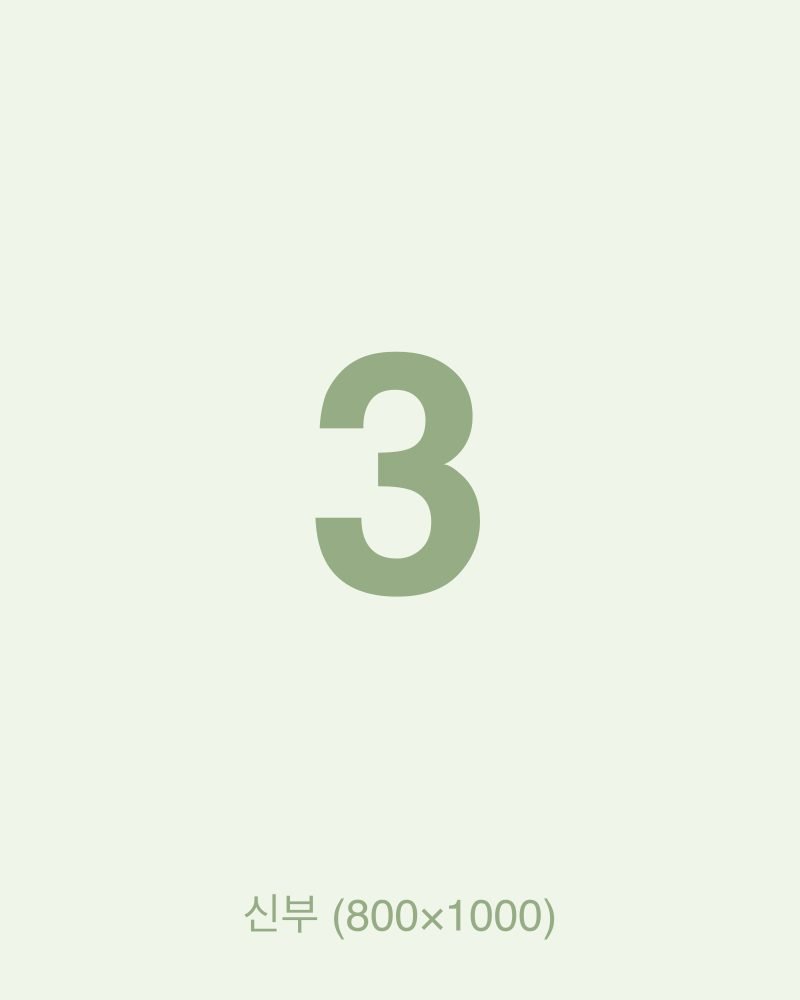
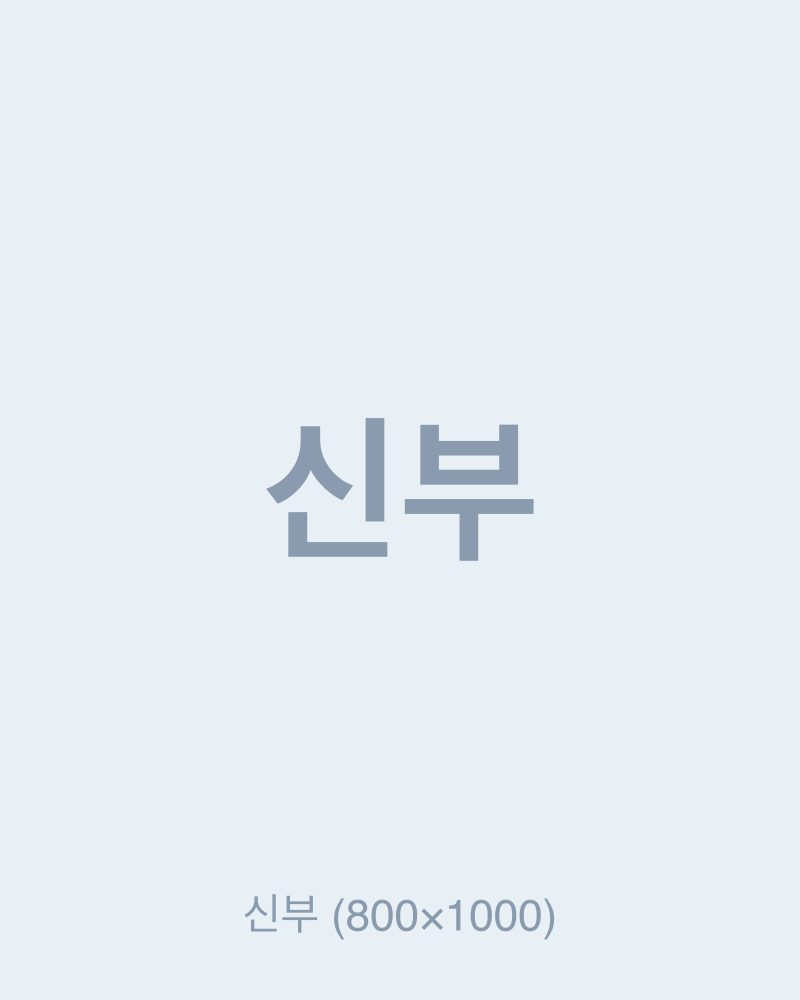
색감 개편(세이지 그린), RSVP 삭제, 이미지 번호 체계 변경
- 팔레트: 크림+로즈 → 순백(#fcfdfb)+차콜+세이지 그린(#7f9678), 커버 문구 SVG 색상 동기화
- RSVP 섹션/스크립트 삭제 (방명록은 유지)
- 이미지 번호 체계: 01=커버(공유 썸네일 겸용), 02~09=갤러리 8장, 11=약도 (png)
- 갤러리는 02~09 + 마지막에 01 재사용 (총 9장 표시)
- og:image를 01.png 절대 URL로 지정 (링크 공유 썸네일)
- optimize-images.js: 대용량 PNG 리사이즈·palette 압축 지원

Changed region(s): [[0.3438, 0.341, 0.6875, 0.62], [0.3125, 0.899, 0.7188, 0.93]]

diff --git a/scripts/generate-placeholders.js b/scripts/generate-placeholders.js
@@ -1,6 +1,12 @@
 // 임시 플레이스홀더 이미지 생성 스크립트
-// 실사진 준비 전까지 사용할, 중앙에 번호(1~n)가 적힌 이미지를 생성한다.
+// 실사진 준비 전까지 사용할, 중앙에 번호가 적힌 이미지를 생성한다.
 // 실행: npm run placeholders
+//
+// 번호 체계 (실사진 교체 시 같은 파일명으로 덮어쓰면 됨):
+//   01.png       커버 (링크 공유 썸네일 겸용) — 갤러리 마지막에도 재사용됨
+//   02~09.png    갤러리 8장
+//   11.png       약도
+//   groom/, bride/  프로필·혼주 사진 (이름 기반, 번호 없음)
 const sharp = require('sharp');
 const fs = require('fs');
 const path = require('path');
@@ -16,42 +22,44 @@ const COLORS = [
   { bg: '#EEE8F5', fg: '#9C8AB0' }, // 연보라
 ];
 
-// 이미지 슬롯 정의 — content.json 이 참조하는 모든 이미지
-// num: 중앙에 표시할 전역 번호(1~n), label: 하단 소형 라벨
 const SLOTS = [
-  { file: 'cover.jpg',            w: 1080, h: 1440, num: 1,  label: '커버' },
-  { file: 'groom/profile.jpg',    w: 800,  h: 1000, num: 2,  label: '신랑' },
-  { file: 'bride/profile.jpg',    w: 800,  h: 1000, num: 3,  label: '신부' },
-  { file: 'groom/parents.jpg',    w: 1000, h: 750,  num: 4,  label: '신랑측 혼주' },
-  { file: 'bride/parents.jpg',    w: 1000, h: 750,  num: 5,  label: '신부측 혼주' },
-  { file: 'map-sketch.jpg',       w: 1080, h: 720,  num: 6,  label: '약도' },
-  ...Array.from({ length: 12 }, (_, i) => ({
-    file: `gallery/${String(i + 1).padStart(2, '0')}.jpg`,
+  { file: '01.png', w: 1080, h: 1440, num: 1,  label: '커버 · 공유 썸네일' },
+  ...Array.from({ length: 8 }, (_, i) => ({
+    file: `${String(i + 2).padStart(2, '0')}.png`,
     w: 1080, h: 1080,
-    num: 7 + i,
+    num: i + 2,
     label: `갤러리 ${i + 1}`,
   })),
+  { file: '11.png', w: 1080, h: 720, num: 11, label: '약도' },
+  { file: 'groom/profile.jpg', w: 800,  h: 1000, num: 0, label: '신랑' },
+  { file: 'bride/profile.jpg', w: 800,  h: 1000, num: 0, label: '신부' },
+  { file: 'groom/parents.jpg', w: 1000, h: 750,  num: 0, label: '신랑측 혼주' },
+  { file: 'bride/parents.jpg', w: 1000, h: 750,  num: 0, label: '신부측 혼주' },
 ];
 
 function svgFor(slot, color) {
-  const fontSize = Math.round(Math.min(slot.w, slot.h) * 0.42);
+  const text = slot.num > 0 ? String(slot.num) : slot.label.slice(0, 2);
+  const fontSize = Math.round(Math.min(slot.w, slot.h) * (slot.num > 0 ? 0.42 : 0.2));
   const labelSize = Math.round(Math.min(slot.w, slot.h) * 0.055);
   return `<svg width="${slot.w}" height="${slot.h}" xmlns="http://www.w3.org/2000/svg">
   <rect width="100%" height="100%" fill="${color.bg}"/>
   <text x="50%" y="50%" font-family="Helvetica, Arial, sans-serif" font-size="${fontSize}"
-        font-weight="bold" fill="${color.fg}" text-anchor="middle" dominant-baseline="central">${slot.num}</text>
+        font-weight="bold" fill="${color.fg}" text-anchor="middle" dominant-baseline="central">${text}</text>
   <text x="50%" y="${slot.h - labelSize * 1.6}" font-family="Helvetica, Arial, sans-serif" font-size="${labelSize}"
         fill="${color.fg}" text-anchor="middle">${slot.label} (${slot.w}×${slot.h})</text>
 </svg>`;
 }
 
 (async () => {
+  let i = 0;
   for (const slot of SLOTS) {
-    const color = COLORS[(slot.num - 1) % COLORS.length];
+    const color = COLORS[i++ % COLORS.length];
     const out = path.join(ROOT, slot.file);
     fs.mkdirSync(path.dirname(out), { recursive: true });
-    await sharp(Buffer.from(svgFor(slot, color))).jpeg({ quality: 82 }).toFile(out);
-    console.log(`생성: ${path.relative(path.join(__dirname, '..'), out)} (#${slot.num})`);
+    const pipeline = sharp(Buffer.from(svgFor(slot, color)));
+    if (out.endsWith('.png')) await pipeline.png({ compressionLevel: 9 }).toFile(out);
+    else await pipeline.jpeg({ quality: 82 }).toFile(out);
+    console.log(`생성: ${path.relative(path.join(__dirname, '..'), out)}`);
   }
-  console.log(`\n총 ${SLOTS.length}장 생성 완료 (번호 1~${SLOTS.length})`);
+  console.log(`\n총 ${SLOTS.length}장 생성 완료`);
 })();

diff --git a/scripts/optimize-images.js b/scripts/optimize-images.js
@@ -1,10 +1,14 @@
-// 실사진 최적화 스크립트
-// media-original/ 폴더의 원본 사진을 최적화해 public/assets/images/ 에 배치한다.
+// 실사진 최적화 스크립트 — 대용량 원본을 웹용으로 리사이즈·압축한다.
+//
 // 사용법:
-//   1. media-original/ 아래에 public/assets/images/ 와 같은 구조로 원본을 넣는다.
-//      예) media-original/gallery/01.jpg, media-original/cover.jpg
+//   1. media-original/ 폴더에 public/assets/images/ 와 같은 파일명으로 원본을 넣는다.
+//      예) media-original/01.png (커버), media-original/02.png ~ 09.png (갤러리),
+//          media-original/11.png (약도), media-original/groom/profile.jpg ...
 //   2. node scripts/optimize-images.js
-//   → 같은 상대 경로로 public/assets/images/ 에 리사이즈·압축본이 생성된다 (jpg 유지 + webp 병행 생성).
+//   → 같은 파일명으로 public/assets/images/ 에 최적화본이 생성된다.
+//
+// 20MB급 PNG 원본도 폭 1600px + 압축으로 보통 1MB 안팎까지 줄어든다.
+// (같은 사진이면 PNG보다 JPG 원본이 더 작게 최적화된다)
 const sharp = require('sharp');
 const fs = require('fs');
 const path = require('path');
@@ -13,14 +17,14 @@ const SRC = path.join(__dirname, '..', 'media-original');
 const DST = path.join(__dirname, '..', 'public', 'assets', 'images');
 const MAX_WIDTH = 1600;       // 모바일 청첩장에 충분한 최대 폭
 const JPEG_QUALITY = 80;
-const WEBP_QUALITY = 78;
+const PNG_QUALITY = 80;       // palette 기반 손실 압축 (사진용)
 
 async function walk(dir) {
   const out = [];
   for (const entry of fs.readdirSync(dir, { withFileTypes: true })) {
     const p = path.join(dir, entry.name);
     if (entry.isDirectory()) out.push(...await walk(p));
-    else if (/\.(jpe?g|png|heic)$/i.test(entry.name)) out.push(p);
+    else if (/\.(jpe?g|png|heic|webp)$/i.test(entry.name)) out.push(p);
   }
   return out;
 }
@@ -38,18 +42,23 @@ async function walk(dir) {
   }
   for (const file of files) {
     const rel = path.relative(SRC, file);
-    const base = rel.replace(/\.(jpe?g|png|heic)$/i, '');
-    const outJpg = path.join(DST, `${base}.jpg`);
-    const outWebp = path.join(DST, `${base}.webp`);
-    fs.mkdirSync(path.dirname(outJpg), { recursive: true });
+    const ext = path.extname(rel).toLowerCase();
+    const out = path.join(DST, rel);
+    fs.mkdirSync(path.dirname(out), { recursive: true });
 
     const pipeline = sharp(file).rotate() // EXIF 회전 반영
       .resize({ width: MAX_WIDTH, withoutEnlargement: true });
-    await pipeline.clone().jpeg({ quality: JPEG_QUALITY, mozjpeg: true }).toFile(outJpg);
-    await pipeline.clone().webp({ quality: WEBP_QUALITY }).toFile(outWebp);
 
+    if (ext === '.png') {
+      // 사진 PNG는 palette 손실 압축으로 대폭 축소
+      await pipeline.png({ quality: PNG_QUALITY, compressionLevel: 9, palette: true }).toFile(out);
+    } else {
+      await pipeline.jpeg({ quality: JPEG_QUALITY, mozjpeg: true }).toFile(path.join(DST, rel.replace(/\.[^.]+$/, '.jpg')));
+    }
+
+    const written = ext === '.png' ? out : path.join(DST, rel.replace(/\.[^.]+$/, '.jpg'));
     const kb = (n) => `${Math.round(fs.statSync(n).size / 1024)}KB`;
-    console.log(`${rel} → ${base}.jpg (${kb(outJpg)}), ${base}.webp (${kb(outWebp)})`);
+    console.log(`${rel} (${kb(file)}) → ${path.relative(path.join(__dirname, '..'), written)} (${kb(written)})`);
   }
   console.log(`\n${files.length}장 최적화 완료`);
 })();

diff --git a/public/index.html b/public/index.html
@@ -9,7 +9,7 @@
 <meta property="og:type" content="website">
 <meta property="og:title" content="김수호 ♥ 홍소연의 모바일 청첩장">
 <meta property="og:description" content="2026년 12월 19일 토요일 낮 12시, 경기교총웨딩하우스">
-<meta property="og:image" content="https://tngh5004.github.io/wedding-invitation/assets/images/cover.jpg">
+<meta property="og:image" content="https://tngh5004.github.io/wedding-invitation/assets/images/01.png">
 <meta property="og:url" content="https://tngh5004.github.io/wedding-invitation/">
 <link rel="stylesheet" href="css/reset.css">
 <link rel="stylesheet" href="css/style.css">
@@ -98,50 +98,6 @@
     <div class="accounts-wrap"></div>
   </section>
 
-  <!-- 9. RSVP -->
-  <section class="fade-in">
-    <div class="section-label">RSVP</div>
-    <h2 class="section-title">참석 여부를 알려주세요</h2>
-    <form id="rsvp-form" class="form-card" autocomplete="off">
-      <div class="form-row">
-        <label>어느 분의 하객이신가요?</label>
-        <div class="seg">
-          <input type="radio" name="side" value="groom" id="side-groom" required>
-          <label for="side-groom">신랑측</label>
-          <input type="radio" name="side" value="bride" id="side-bride">
-          <label for="side-bride">신부측</label>
-        </div>
-      </div>
-      <div class="form-row">
-        <label>참석 여부</label>
-        <div class="seg">
-          <input type="radio" name="attending" value="yes" id="att-yes" required>
-          <label for="att-yes">참석</label>
-          <input type="radio" name="attending" value="no" id="att-no">
-          <label for="att-no">불참</label>
-        </div>
-      </div>
-      <div class="form-row">
-        <label for="rsvp-name">성함</label>
-        <input type="text" id="rsvp-name" name="name" maxlength="20" required placeholder="성함을 입력해주세요">
-      </div>
-      <div class="form-row">
-        <label for="rsvp-count">동행 인원 (본인 포함)</label>
-        <input type="number" id="rsvp-count" name="guest_count" min="1" max="20" value="1">
-      </div>
-      <div class="form-row">
-        <label for="rsvp-phone">소속 (선택)</label>
-        <input type="text" id="rsvp-phone" name="phone" maxlength="20" placeholder="친구/친척/직장동료">
-      </div>
-      <div class="hp-field">
-        <label for="rsvp-website">홈페이지</label>
-        <input type="text" id="rsvp-website" name="website" tabindex="-1" autocomplete="off">
-      </div>
-      <button type="submit" class="submit-btn">참석 여부 보내기</button>
-      <div class="form-msg"></div>
-    </form>
-  </section>
-
   <!-- 10. 방명록 -->
   <section class="fade-in">
     <div class="section-label">GUESTBOOK</div>
@@ -179,7 +135,6 @@
 <script src="js/countdown.js"></script>
 <script src="js/gallery.js"></script>
 <script src="js/map.js"></script>
-<script src="js/rsvp.js"></script>
 <script src="js/guestbook.js"></script>
 <script src="js/main.js"></script>
 </body>

diff --git a/public/css/style.css b/public/css/style.css
@@ -10,13 +10,13 @@
 }
 
 :root {
-  --bg: #faf7f4;
+  --bg: #fcfdfb;           /* 순백에 가까운 화이트 */
   --card: #ffffff;
-  --ink: #3d3a37;
-  --ink-soft: #7a736c;
-  --accent: #b08a8f;       /* 로즈 */
-  --accent-soft: #f5e6e8;
-  --line: #eae4de;
+  --ink: #31352f;          /* 차분한 차콜 */
+  --ink-soft: #7d837a;
+  --accent: #7f9678;       /* 세이지 그린 */
+  --accent-soft: #eef2ec;
+  --line: #e4e8e1;
   --serif: "Nanum NeuRisNeuRisCe", "Apple SD Gothic Neo", "Noto Serif KR", "Nanum Myeongjo", serif;
   --sans: "Nanum NeuRisNeuRisCe", "Apple SD Gothic Neo", "Noto Sans KR", "Malgun Gothic", sans-serif;
 }
@@ -25,7 +25,7 @@ html { scroll-behavior: smooth; }
 body {
   font-family: var(--sans);
   font-size: 24px; /* 기본 16px의 1.5배 — 개별 지정이 없는 텍스트에 적용 */
-  background: #efeae5;
+  background: #eceee9;
   color: var(--ink);
   line-height: 1.7;
   word-break: keep-all;

diff --git a/public/js/main.js b/public/js/main.js
@@ -89,10 +89,9 @@
     accWrap.closest('section').style.display = 'none';
   }
 
-  // RSVP / 방명록 — Apps Script URL(api.baseUrl) 미설정 시 섹션 숨김
+  // 방명록 — Apps Script URL(api.baseUrl) 미설정 시 섹션 숨김
   const apiBase = data.api && data.api.baseUrl;
   if (apiBase) {
-    window.WeddingRsvp.init(document.querySelector('#rsvp-form'), apiBase);
     window.WeddingGuestbook.init(
       document.querySelector('#gb-form'),
       document.querySelector('.gb-list'),
@@ -100,7 +99,6 @@
       apiBase
     );
   } else {
-    document.querySelector('#rsvp-form').closest('section').style.display = 'none';
     document.querySelector('#gb-form').closest('section').style.display = 'none';
   }
 

diff --git a/scripts/generate-cover-text.py b/scripts/generate-cover-text.py
@@ -12,9 +12,9 @@ OUT_SVG = os.path.join(ROOT, 'public/assets/images/cover-text.svg')
 
 # (텍스트, 폰트크기(px, @2x), 색상, 자간(em))
 LINES = [
-    ('김수호♥홍소연', 86, '#3d3a37', 0.10),
-    ('2026년 12월 19일 토요일 낮 12시', 50, '#7a736c', 0.02),
-    ('경기교총웨딩하우스', 50, '#7a736c', 0.02),
+    ('김수호♥홍소연', 86, '#31352f', 0.10),
+    ('2026년 12월 19일 토요일 낮 12시', 50, '#7d837a', 0.02),
+    ('경기교총웨딩하우스', 50, '#7d837a', 0.02),
 ]
 WIDTH = 860           # frame 430px 의 2배 (레티나)
 PAD_TOP, PAD_BOTTOM = 70, 84

diff --git a/structure.md b/structure.md
@@ -9,7 +9,7 @@
 
 | 경로 | 설명 |
 |---|---|
-| `public/index.html` | 메인 싱글 스크롤 — 커버(사진+이미지화된 문구) · 인사말/혼주 · D-day 캘린더 · 갤러리 · 오시는길 · 예식안내 · 계좌 · RSVP · 방명록 |
+| `public/index.html` | 메인 싱글 스크롤 — 커버(사진+이미지화된 문구) · 인사말/혼주 · D-day 캘린더 · 갤러리 · 오시는길 · 예식안내 · 계좌 · 방명록 |
 | `public/groom.html` / `bride.html` | 신랑측/신부측 소개 — 프로필·연락 버튼·혼주(통합 사진+성함 카드)·계좌 |
 | `public/location.html` | 오시는 길 상세 — 약도, 카카오맵/네이버지도/티맵 앱 딥링크, 교통 안내 |
 
@@ -21,7 +21,6 @@
 - **혼주 표기**: 인사말의 혼주 라인은 3열 그리드로, 신랑/신부 이름이 같은 세로선에 정렬. 신부측은 어머니만 표시.
 - **지도 딥링크**: 모바일에서 카카오맵/네이버지도/티맵 앱을 스킴으로 열고, 앱 미설치·데스크톱은 웹 지도로 자동 폴백.
 - **교통편**: `content.json`의 `transport` 배열 순서대로 표시 — 웨딩홀 셔틀버스(수원역) → 부산 대절버스(괴정역, 문의 010-4004-0467) → 주차.
-- **RSVP 폼**: 신랑측/신부측, 참석 여부, 성함, 동행 인원, 소속(선택 — 친구/친척/직장동료).
 - **글자 크기**: 전체 1.5배 확대 적용(본문 기본 24px, 섹션 라벨 27px 등).
 
 ## 파일 구조
@@ -68,7 +67,8 @@
 1. **문구/이름/계좌/일시/교통**: `public/assets/config/content.json` 수정 → 푸시 (약 1분 내 자동 배포)
 2. **커버 문구**: `scripts/generate-cover-text.py`의 `LINES` 수정 → `python3 scripts/generate-cover-text.py` 실행 → 푸시
 3. **사진**: `public/assets/images/`의 같은 파일명에 실사진 덮어쓰기, 또는 `media-original/`에 원본을 넣고 `node scripts/optimize-images.js`
-   - 플레이스홀더 번호: 1=커버, 2=신랑, 3=신부, 4=신랑측 혼주, 5=신부측 혼주, 6=약도, 7~18=갤러리 1~12
+   - 이미지 번호: 01=커버(공유 썸네일 겸용, 갤러리 마지막에 재사용), 02~09=갤러리 8장, 11=약도 (모두 png)
+   - 프로필/혼주 사진: groom/, bride/ 폴더 (profile.jpg, parents.jpg)
 4. **동영상**: 파일당 100MB 제한 — 압축 후 `content.json`의 `video.src` 지정 (비우면 섹션 숨김)
    ```bash
    ffmpeg -i 원본.mov -c:v libx264 -crf 26 -vf "scale=-2:1080" -c:a aac -movflags +faststart public/assets/video/main.mp4
